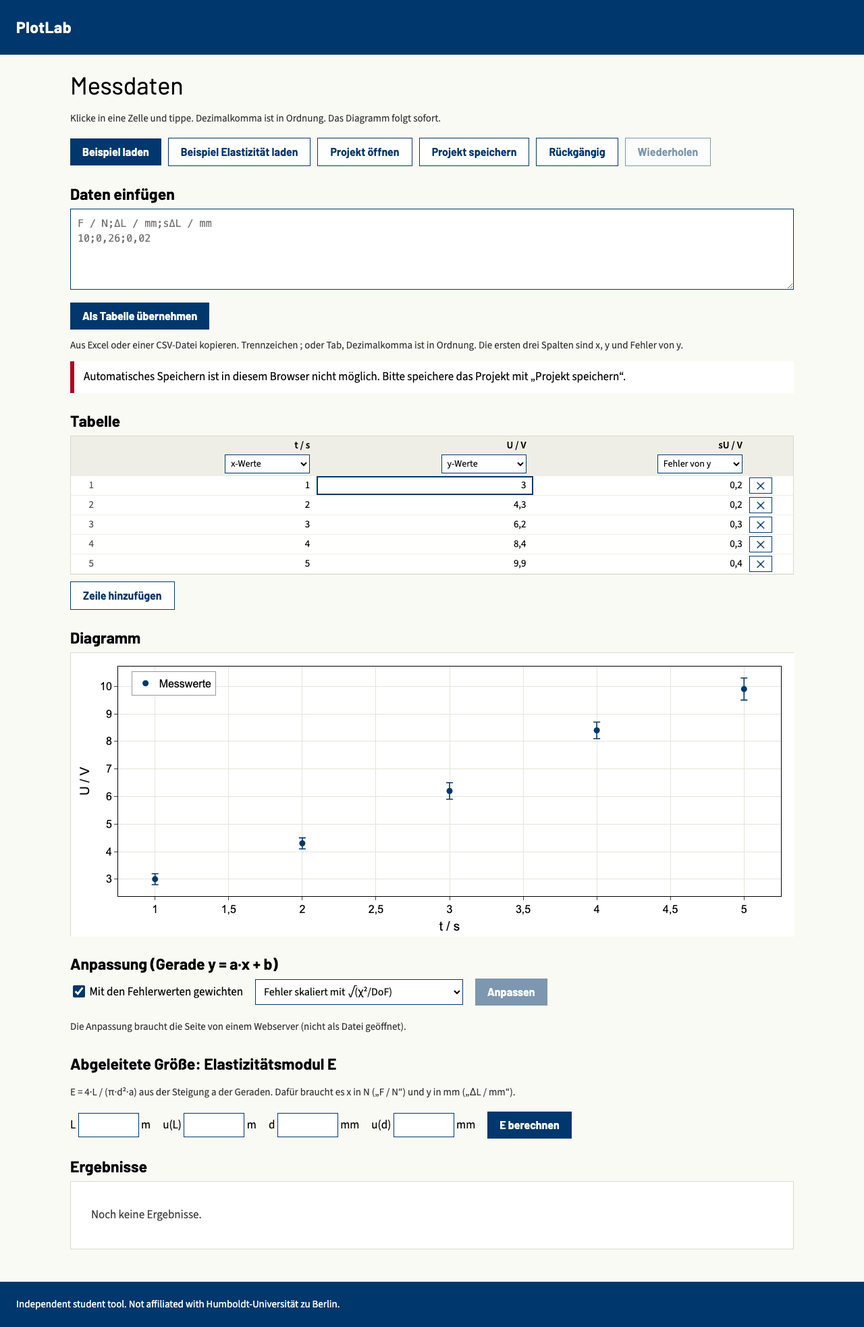
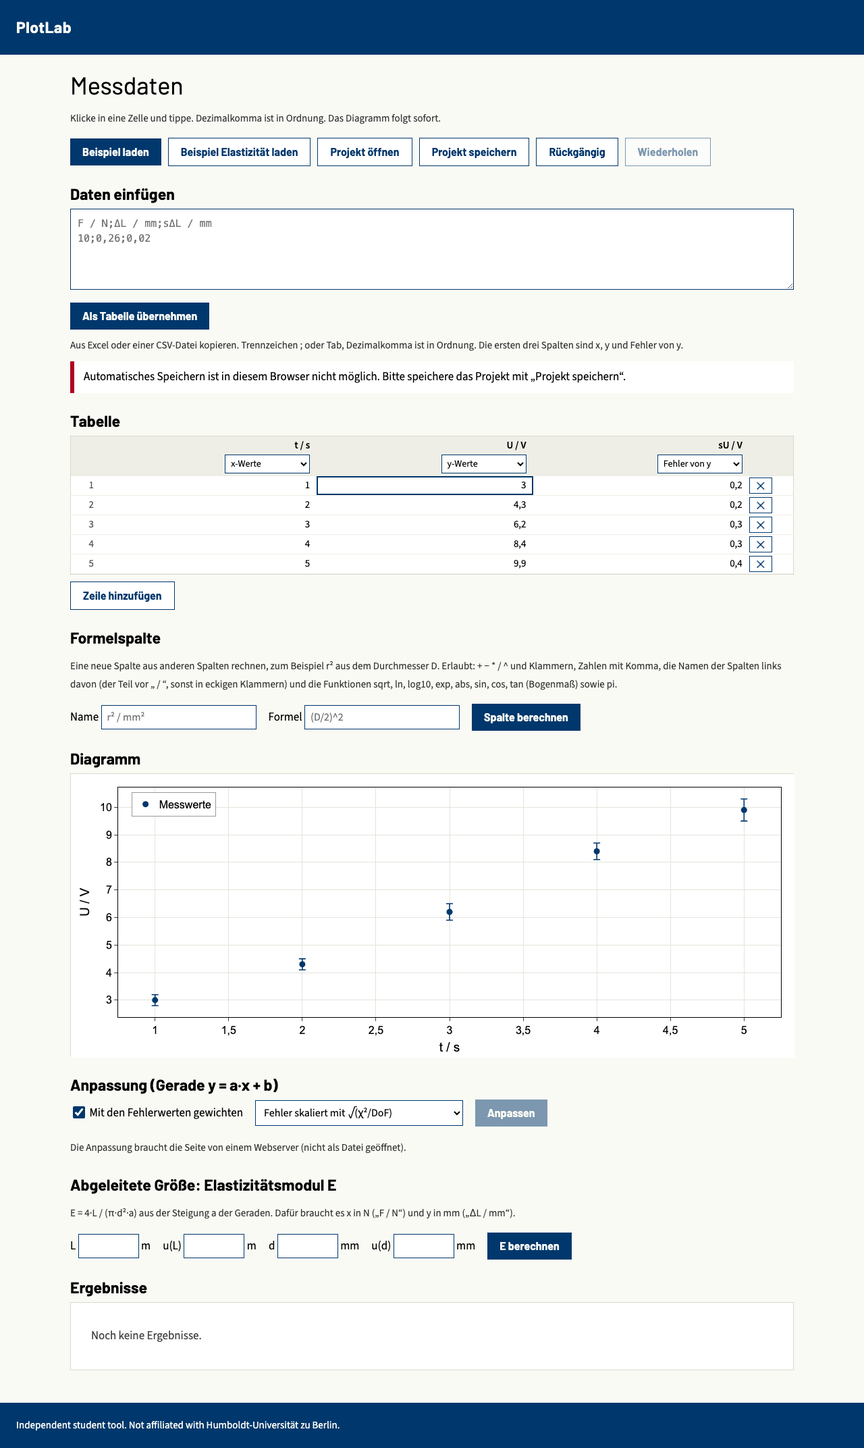
Phase 2 step 1: formula columns with a safe parser

diff --git a/app/index.html b/app/index.html
@@ -42,6 +42,10 @@
   #results th { position:static; padding:3px 12px; }
   #results td { padding:3px 12px; text-align:right; }
   input.num { width:90px; padding:6px 8px; font:16px "Source Sans 3", system-ui, sans-serif; text-align:right; border:1px solid var(--blue); border-radius:0; background:#fff; }
+  input.txt { padding:6px 8px; font:16px "Source Sans 3", system-ui, sans-serif; border:1px solid var(--blue); border-radius:0; background:#fff; width:230px; max-width:100%; }
+  .fx { font-weight:400; font-size:13px; line-height:18px; color:#444; }
+  td.calc { padding:3px 10px; text-align:right; background:#f6f6ef; }
+  #fmsg { white-space:pre-line; }
   input.num.bad { background:#fde8ea; border-color:#B00020; }
   td.n { padding:3px 10px; color:#555; text-align:right; width:44px; }
   td input { width:100%; min-width:90px; border:0; border-radius:0; padding:3px 10px; font:inherit; text-align:right; background:transparent; }
@@ -82,6 +86,14 @@
   <div class="btns">
     <button class="btn alt" id="addrow" disabled>Zeile hinzufügen</button>
   </div>
+  <h2>Formelspalte</h2>
+  <p class="hint">Eine neue Spalte aus anderen Spalten rechnen, zum Beispiel r² aus dem Durchmesser D. Erlaubt: + − * / ^ und Klammern, Zahlen mit Komma, die Namen der Spalten links davon (der Teil vor „ / “, sonst in eckigen Klammern) und die Funktionen sqrt, ln, log10, exp, abs, sin, cos, tan (Bogenmaß) sowie pi.</p>
+  <div class="fitbar">
+    <label>Name <input class="txt" id="f_name" aria-label="Name der neuen Spalte" placeholder="r² / mm²" autocomplete="off"></label>
+    <label>Formel <input class="txt" id="f_expr" aria-label="Formel der neuen Spalte" placeholder="(D/2)^2" autocomplete="off" spellcheck="false"></label>
+    <button class="btn" id="f_add" disabled>Spalte berechnen</button>
+  </div>
+  <div id="fmsg" class="msg" role="alert" hidden></div>
   <h2>Diagramm</h2>
   <div id="plot"><div class="empty">Noch keine Daten.</div></div>
   <h2>Anpassung (Gerade y = a·x + b)</h2>
@@ -110,6 +122,7 @@
 <script src="../testbuild/round.js"></script>
 <script src="../testbuild/parse.js"></script>
 <script src="project.js"></script>
+<script src="formula.js"></script>
 <script src="derive.js"></script>
 <script>
 const $ = id => document.getElementById(id);
@@ -145,7 +158,7 @@ $("undo").onclick = undoStep;
 $("redo").onclick = redoStep;
 // Always take over Ctrl/Cmd+Z so the browser's own per-cell undo cannot disagree with ours.
 document.addEventListener("keydown", e => {
-  if (!(e.ctrlKey || e.metaKey) || e.altKey) return;
+  if (!(e.ctrlKey || e.metaKey) || e.altKey || e.target.matches?.("input.txt")) return;
   const k = e.key.toLowerCase();
   if (k === "z" || k === "y") { e.preventDefault(); (k === "y" || e.shiftKey) ? redoStep() : undoStep(); }
 });
@@ -171,17 +184,19 @@ function restoreAutosave() {
 function setProject(p) {
   proj = p; undo = []; redo = []; editKey = null; updateHist();
   $("msg").hidden = true;
-  $("saveproj").disabled = $("addrow").disabled = false; if (worker?.ready && !pending) $("fit").disabled = false;
+  $("saveproj").disabled = $("addrow").disabled = $("f_add").disabled = false; if (worker?.ready && !pending) $("fit").disabled = false;
   render();
 }
 function showMsg(t) { $("msg").textContent = t; $("msg").hidden = false; }
 
+const fmtCalc = new Intl.NumberFormat("de-DE", { maximumSignificantDigits: 8 });
+const calcText = (c, i) => c.values[i] === null ? "" : fmtCalc.format(c.values[i]);
 function renderTable() {
   const roleSel = (c, j) => `<select class="role" data-role="${j}" aria-label="Rolle von ${esc(c.name)}">` +
     Object.entries(ROLE_LABELS).map(([r, t]) => `<option value="${r}"${c.role === r ? " selected" : ""}>${t}</option>`).join("") + "</select>";
-  const head = "<tr><th></th>" + proj.columns.map((c, j) => `<th>${esc(c.name)}${roleSel(c, j)}</th>`).join("") + "<th></th></tr>";
+  const head = "<tr><th></th>" + proj.columns.map((c, j) => `<th>${esc(c.name)}${c.formula !== undefined ? `<div class="fx">= ${esc(c.formula)}</div>` : ""}${roleSel(c, j)}${c.formula !== undefined ? `<button class="btn alt small" data-delcol="${j}" aria-label="Spalte ${esc(c.name)} entfernen">Spalte entfernen</button>` : ""}</th>`).join("") + "<th></th></tr>";
   const body = Array.from({ length: nrows() }, (_, i) => `<tr><td class="n">${i + 1}</td>` +
-    proj.columns.map((c, j) => `<td><input data-r="${i}" data-c="${j}" aria-label="${esc(c.name)}, Zeile ${i + 1}" value="${c.values[i] === null ? "" : fmt.format(c.values[i])}" inputmode="decimal"></td>`).join("") +
+    proj.columns.map((c, j) => c.formula !== undefined ? `<td class="calc" data-calc="${j}">${calcText(c, i)}</td>` : `<td><input data-r="${i}" data-c="${j}" aria-label="${esc(c.name)}, Zeile ${i + 1}" value="${c.values[i] === null ? "" : fmt.format(c.values[i])}" inputmode="decimal"></td>`).join("") +
     `<td><button class="btn alt small" data-del="${i}" aria-label="Zeile ${i + 1} löschen">✕</button></td></tr>`).join("");
   $("table").innerHTML = `<table><thead>${head}</thead><tbody>${body}</tbody></table>`;
 }
@@ -240,7 +255,12 @@ function syncControls() {
   $("fitmsg").hidden = true; $("derivemsg").hidden = true;
   for (const k of ["L", "uL", "d", "ud"]) { const v = (proj.settings.young || {})[k]; $("y_" + k).value = v == null ? "" : fmt.format(v); $("y_" + k).classList.remove("bad"); }
 }
-function render() { renderTable(); renderPlot(); renderResults(); syncControls(); autosave(); }
+// Formula columns are recomputed from the data on every change; rows that cannot be calculated are named in the message.
+function recalc() {
+  const m = recalcFormulas(proj);
+  $("fmsg").textContent = m.join("\n"); $("fmsg").hidden = !m.length;
+}
+function render() { recalc(); renderTable(); renderPlot(); renderResults(); syncControls(); autosave(); }
 
 // An edit changes data only: keep the focused table as it is, redraw plot and results.
 $("table").addEventListener("input", e => {
@@ -253,6 +273,8 @@ $("table").addEventListener("input", e => {
   const key = el.dataset.r + "," + el.dataset.c;
   if (editKey !== key) { pushUndo(); editKey = key; }
   proj.columns[+el.dataset.c].values[+el.dataset.r] = v;
+  recalc();
+  $("table").querySelectorAll("td.calc").forEach(td => { td.textContent = calcText(proj.columns[+td.dataset.calc], +td.parentNode.rowIndex - 1); });
   renderPlot(); renderResults(); autosave();
 });
 // Choosing a role: x, y and error each belong to one column, so taking a role frees it from its old column.
@@ -271,6 +293,8 @@ $("table").addEventListener("focusout", e => {
   if (v !== undefined) el.value = v === null ? "" : fmt.format(v);
 });
 $("table").addEventListener("click", e => {
+  const dc = e.target.dataset.delcol;
+  if (dc !== undefined) { $("msg").hidden = true; change(() => proj.columns.splice(+dc, 1)); return; }
   const i = e.target.dataset.del;
   if (i === undefined) return;
   $("msg").hidden = true;
@@ -282,6 +306,15 @@ $("example2").onclick = () => {
   const p = newProject(...EXAMPLE2);
   p.settings.young = { L: 1, uL: 0.002, d: 0.5, ud: 0.01 };
   setProject(p);
+};
+$("f_add").onclick = () => {
+  const name = $("f_name").value.trim(), expr = $("f_expr").value, fail = t => { $("fmsg").textContent = t; $("fmsg").hidden = false; };
+  if (!name) return fail("Bitte einen Namen für die neue Spalte eingeben, zum Beispiel „r² / mm²“.");
+  if (proj.columns.some(c => c.name === name)) return fail(`Es gibt schon eine Spalte „${name}“. Bitte einen anderen Namen wählen.`);
+  const r = parseFormula(expr, proj.columns);
+  if (r.error) return fail(r.error);
+  change(() => proj.columns.push({ name, role: "unused", values: [], formula: expr.trim() }));
+  $("f_name").value = $("f_expr").value = "";
 };
 $("pastego").onclick = () => {
   const r = parseTable($("paste").value);

diff --git a/app/formula.js b/app/formula.js
@@ -1,0 +1,136 @@
+// Formula columns: a small parser for + - * / ^, parentheses, numbers (decimal comma or point), column names
+// and a fixed list of functions. The text is never run as code (no eval, no new Function): it becomes a tree of closures.
+// A formula may use only columns to its left, so recalculating in column order cannot loop.
+const FORMULA_FUNCTIONS = {
+  sqrt: x => { if (x < 0) throw "Wurzel aus einer negativen Zahl"; return Math.sqrt(x); },
+  ln: x => { if (!(x > 0)) throw "Logarithmus von 0 oder einer negativen Zahl"; return Math.log(x); },
+  log10: x => { if (!(x > 0)) throw "Logarithmus von 0 oder einer negativen Zahl"; return Math.log10(x); },
+  exp: Math.exp, abs: Math.abs, sin: Math.sin, cos: Math.cos, tan: Math.tan,
+};
+FORMULA_FUNCTIONS.wurzel = FORMULA_FUNCTIONS.sqrt;
+const FORMULA_CONSTANTS = { pi: Math.PI };
+const FORMULA_MAX_LENGTH = 300;
+const shortName = n => n.split(" / ")[0].trim();
+
+// Returns {fn, refs} (fn(valuesOfRow) -> number, refs = column indexes it reads) or {error} (German message).
+// ponytail: names are looked up among columns 0..upto-1 only.
+function parseFormula(text, columns, upto = columns.length) {
+  const src = String(text).replace(/[·×]/g, "*").replace(/−/g, "-").replace(/÷/g, "/");
+  if (src.trim() === "") return { error: "Bitte eine Formel eingeben, zum Beispiel (D/2)^2." };
+  if (src.length > FORMULA_MAX_LENGTH) return { error: `Die Formel ist zu lang (höchstens ${FORMULA_MAX_LENGTH} Zeichen).` };
+
+  // Names a formula may use: full column name, or the part before " / " when that is unique.
+  const full = new Map(), shorts = new Map();
+  for (let j = 0; j < upto; j++) {
+    full.set(columns[j].name, j);
+    const s = shortName(columns[j].name);
+    shorts.set(s, shorts.has(s) ? -1 : j);
+  }
+  const lookup = n => full.has(n) ? full.get(n) : shorts.has(n) ? shorts.get(n) : undefined;
+  const available = () => [...new Set(columns.slice(0, upto).map(c => shortName(c.name)))].slice(0, 8).join(", ");
+
+  const toks = [], re = /\s*(?:(\d+(?:[.,]\d+)?(?:[eE][+-]?\d+)?|[.,]\d+)|([\p{L}_][\p{L}\p{Nd}_]*)|\[([^\]]+)\]|(.))/uy;
+  for (let m; re.lastIndex < src.length && (m = re.exec(src));) {
+    if (m[1] !== undefined) toks.push({ t: "num", v: Number(m[1].replace(",", ".")) });
+    else if (m[2] !== undefined) toks.push({ t: "id", v: m[2] });
+    else if (m[3] !== undefined) toks.push({ t: "ref", v: m[3].trim() });
+    else if (m[4] !== undefined && m[4].trim() !== "") toks.push({ t: "op", v: m[4] });
+  }
+  toks.push({ t: "end" });
+  let pos = 0;
+  const refs = new Set();
+  const fail = msg => { throw { parse: msg }; };
+  const peek = () => toks[pos];
+  const isOp = v => peek().t === "op" && peek().v === v;
+  const show = t => t.t === "end" ? "das Ende der Formel" : `„${t.v}“`;
+
+  const column = name => {
+    const j = lookup(name);
+    if (j === -1) fail(`Der Spaltenname „${name}“ ist nicht eindeutig. Schreibe den vollen Namen in eckigen Klammern, zum Beispiel [${columns.find(c => shortName(c.name) === name).name}].`);
+    if (j === undefined) fail(`Unbekannte Spalte „${name}“ in der Formel.` + (available() ? ` Verfügbar: ${available()}.` : "") + " Die Formel darf nur Spalten links von der neuen Spalte benutzen.");
+    refs.add(j);
+    return v => v[j];
+  };
+  function primary() {
+    const t = peek();
+    if (t.t === "num") { pos++; return () => t.v; }
+    if (t.t === "ref") { pos++; return column(t.v); }
+    if (t.t === "id") {
+      pos++;
+      if (isOp("(")) {
+        if (!Object.hasOwn(FORMULA_FUNCTIONS, t.v)) fail(`Unbekannte Funktion „${t.v}“. Erlaubt: ${Object.keys(FORMULA_FUNCTIONS).join(", ")}.`);
+        pos++; const a = expr(); if (!isOp(")")) fail("Eine Klammer wurde nicht geschlossen."); pos++;
+        const f = FORMULA_FUNCTIONS[t.v]; return v => f(a(v));
+      }
+      if (Object.hasOwn(FORMULA_CONSTANTS, t.v)) return () => FORMULA_CONSTANTS[t.v];
+      return column(t.v);
+    }
+    if (isOp("(")) { pos++; const a = expr(); if (!isOp(")")) fail("Eine Klammer wurde nicht geschlossen."); pos++; return a; }
+    return fail(`Unerwartet: ${show(t)}. Hier fehlt eine Zahl, ein Spaltenname oder eine Klammer.`);
+  }
+  function power() {
+    let a = primary();
+    while (isOp("²") || isOp("³")) { const k = peek().v === "²" ? 2 : 3, l = a; pos++; a = v => l(v) ** k; }
+    if (isOp("^")) { pos++; const l = a, b = unary(); return v => l(v) ** b(v); }
+    return a;
+  }
+  function unary() {
+    if (isOp("-")) { pos++; const a = unary(); return v => -a(v); }
+    if (isOp("+")) { pos++; return unary(); }
+    return power();
+  }
+  function term() {
+    let a = unary();
+    while (isOp("*") || isOp("/")) {
+      const div = peek().v === "/"; pos++;
+      const l = a, r = unary();
+      a = div ? v => { const d = r(v); if (d === 0) throw "Division durch 0"; return l(v) / d; } : v => l(v) * r(v);
+    }
+    return a;
+  }
+  function expr() {
+    let a = term();
+    while (isOp("+") || isOp("-")) {
+      const minus = peek().v === "-"; pos++;
+      const l = a, r = term();
+      a = minus ? v => l(v) - r(v) : v => l(v) + r(v);
+    }
+    return a;
+  }
+  try {
+    const fn = expr();
+    if (peek().t !== "end") fail(`Unerwartet: ${show(peek())}. Fehlt ein Operator (+ − * / ^)?`);
+    return { fn, refs: [...refs] };
+  } catch (e) {
+    if (e && typeof e.parse === "string") return { error: e.parse };
+    throw e;
+  }
+}
+
+// Recomputes every formula column of project p in place (columns left to right).
+// Returns a list of German messages for formulas that failed or rows that could not be calculated.
+function recalcFormulas(p) {
+  const msgs = [], n = p.columns[0].values.length;
+  p.columns.forEach((c, j) => {
+    if (typeof c.formula !== "string") return;
+    const r = parseFormula(c.formula, p.columns, j);
+    if (r.error) { c.values = Array(n).fill(null); msgs.push(`Spalte „${c.name}“: ${r.error}`); return; }
+    const bad = [];
+    c.values = Array.from({ length: n }, (_, i) => {
+      const row = p.columns.map(k => k.values[i]);
+      if (r.refs.some(k => row[k] === null || row[k] === undefined)) return null;
+      try {
+        const v = r.fn(row);
+        if (!Number.isFinite(v)) throw "Das Ergebnis ist keine endliche Zahl";
+        return v;
+      } catch (e) {
+        if (typeof e !== "string") throw e;
+        bad.push([i + 1, e]); return null;
+      }
+    });
+    if (bad.length) msgs.push(`Spalte „${c.name}“, Zeile ${bad[0][0]}: ${bad[0][1]}. Der Wert bleibt leer.` + (bad.length > 1 ? ` Weitere betroffene Zeilen: ${bad.slice(1).map(b => b[0]).join(", ")}.` : ""));
+  });
+  return msgs;
+}
+
+if (typeof module !== "undefined") module.exports = { parseFormula, recalcFormulas };

diff --git a/app/project.js b/app/project.js
@@ -37,7 +37,7 @@ function open(text) {
   if (!p || p.format !== "datenplot-projekt") return { error: "Die Datei ist kein Projekt dieser Anwendung." };
   if (p.version !== 1) return { error: `Projektversion ${p.version} wird nicht unterstützt.` };
   const ok = Array.isArray(p.columns) && p.columns.length && Array.isArray(p.results) && p.settings &&
-    p.columns.every(c => typeof c.name === "string" && ROLES.includes(c.role) && Array.isArray(c.values) &&
+    p.columns.every(c => typeof c.name === "string" && (c.formula === undefined || typeof c.formula === "string") && ROLES.includes(c.role) && Array.isArray(c.values) &&
       c.values.length === p.columns[0].values.length && c.values.every(v => v === null || Number.isFinite(v)));
   return ok ? { project: p } : { error: "Das Projekt ist beschädigt: Spalten oder Werte fehlen oder sind keine Zahlen." };
 }

diff --git a/docs/progress.md b/docs/progress.md
@@ -7,7 +7,7 @@ Read by every round of the loop (see docs/loop-prompt.md). Keep the first line e
 
 Phase 1 is finished (see `docs/phase1-report.md`). Phase 2 **assumes P1 to P9** of `docs/lab-assignments-checklist.md` because the real experiment list from Luis's daughter is not known yet; revise these steps when she answers. Every number test uses hand calculations or textbook table values written separately from the app, never the app's own output. Every step ends with `bash scripts/check.sh` passing, a browser test with a screenshot, and one bad-input check. Also move what the app borrows from `testbuild/` (fonts, Plotly, round.js, parse.js, fit worker, Pyodide) into `app/` at the first step that touches it, and keep `testbuild/` tests passing until then.
 
-- [ ] 1. Formula columns, values only (P2, P5, P6): a new column defined by a formula over other columns (`+ - * / ^`, `sqrt`, `ln`, `log10`, `pi`, German column names, decimal comma). Recalculates when data changes, saved in the project, undo works. Test: r² and d·c columns from the P5 sheet against hand values; a formula with an unknown column name or a division by zero shows a clear message.
+- [x] 1. Formula columns, values only (P2, P5, P6): a new column defined by a formula over other columns (`+ - * / ^`, `sqrt`, `ln`, `log10`, `pi`, German column names, decimal comma). Recalculates when data changes, saved in the project, undo works. Test: r² and d·c columns from the P5 sheet against hand values; a formula with an unknown column name or a division by zero shows a clear message.
 - [ ] 2. Error propagation for formula columns (P2, P5, P6): optional uncertainty column per formula result, Gaussian propagation from the uncertainties of the inputs (independent inputs). Test: product, quotient and square-root cases against hand-derived partial derivatives, including the Wheatstone bridge Rx = R1·R2/R3 case.
 - [ ] 3. Mean, standard deviation (n or n−1, chosen by the student), standard error, and random plus instrument error combined in quadrature (P2 volume measurement, P1). Test: a 10-value sample against hand values for both choices of n; result lines in HU format.
 - [ ] 4. Weighted mean with uncertainty and an overlap check of several results (P2). Test: three volume results with different uncertainties against hand values (w = 1/u², mean, 1/√Σw); the overlap verdict (within k·u) matches the hand check.
@@ -75,3 +75,4 @@ Phase 1 is finished (see `docs/phase1-report.md`). Phase 2 **assumes P1 to P9** 
 - 2026-10-14, Phase 1 step 6: A student can now load "Beispiel Elastizität" (steel wire, load F in N against extension in mm), fit the line, enter the wire length L and diameter d with their uncertainties, press "E berechnen" and read the Young's modulus, for example E = (201 ± 8) GPa. The formula is E = 4·L / (π·d²·a) with the fitted slope a; the uncertainty adds the relative errors of L, 2·d and a in quadrature, and the page shows each share (0,2 %, 4 %, 1,15 %). It uses the scaled or unscaled slope error, whichever is selected (unscaled gives (201 ± 9) GPa). E goes out of date when data, weighting or an input changes; undo and reload keep it. Tested in a real browser (`tests/phase1-step6-elasticity.sh`) against numbers calculated separately in plain Python from the formulas, not by the app: a = 0,0252857 mm/N, u(a) 0,000290 (scaled) and 0,000478 (unscaled), χ²/DoF 0,369, E = 201,416 GPa, u(E) = 8,39 (scaled) and 8,92 (unscaled). The formula alone is also checked on a case that can be done in the head (E = 4/π GPa, relative error 0,3). Bad cases give clear messages: no fit yet or stale fit, an empty or non-numeric input, wrong column units (needs N and mm). All 13 checks in `scripts/check.sh` pass. Screenshots `evidence/phase1-step6-elasticity.png` and `-error.png` judged OK. Not yet: the shear modulus from oscillation periods and the loading/unloading comparison from the P3 sheet; a general formula column with error propagation comes in Phase 2.
 - 2026-10-14, Phase 1 step 7: The line fit was checked against independent references and the check found a real weakness: the old fit (SciPy `curve_fit`, which iterates) matched the official NIST dataset Norris (36 points) only to 7.6 digits for the intercept and 5.5 digits for the slope error. The straight-line fit now solves the problem directly (SVD least squares in the Python worker), and `curve_fit` stays for Michaelis-Menten and the NIST nonlinear checks. Result against NIST certified values: slope 1,00211681802 and intercept -0,262323073774 correct to 9 or more digits, standard errors (0,000429796848 and 0,232818234301) 9 digits, residual sum of squares 26,6173985294 and 34 degrees of freedom exact. Weighted fits: (1) with equal errors the scaled-error weighted fit must equal the unweighted one, so it matches NIST too (9 digits); (2) a 7-point case with unequal errors checked against a separate Python script (`tests/reference/weighted_line.py`, exact fractions, other formulas): a = 1,86588504, b = 0,85012444, scaled errors 0,0736838 and 0,151466, unscaled 0,0512457 and 0,105342, χ² 10,3371, all 9 digits. On screen: Norris reads a = (1,0021 ± 0,0004), b = (-0,26 ± 0,23); the 7-point case a = (1,87 ± 0,07) scaled and (1,87 ± 0,05) unscaled, both rounded by hand. Test: `tests/phase1-step7-reference.sh` (failed with the old code, passes now); all 14 checks in `scripts/check.sh` pass. Screenshots `evidence/phase1-step7-norris.png`, `-weighted.png` judged OK. Not yet: R is not installed, so the R comparison stays open (see Blocked); NIST has no certified weighted linear dataset, so the weighted case rests on the hand calculation.
 - 2026-10-14, Phase 1 step 8 and Phase 1 gate: P3 Elasticity now runs start to finish in the real page: paste six German-format rows, press "Anpassen", enter L, u(L), d, u(d), press "E berechnen", save. Result: a = (0,02529 ± 0,00029) mm/N, E = (201 ± 8) GPa (the hand-calculated numbers). Measured by `tests/phase1-step8-timed.sh`: 9 user actions, 219 to 291 ms of machine time over four runs (Apple M5, headless Chromium, local server), plus 4.6 to 5.3 s once per visit for Python to load. The same task in Excel is about 40 actions, but that count is my estimate from the steps, not a measurement with a person. Edit, undo and save/reopen in a fresh browser profile keep everything (checked in the same test). Added a "Daten einfügen" box so a student can start with their own numbers (before, only examples or a saved project were possible), and the fit details no longer name `absolute_sigma`: they say "gewichtete Methode der kleinsten Quadrate (Gewichte 1/s²); Fehler mit √(χ²/DoF) skaliert" or "unskaliert, direkt aus den Fehlerwerten". Bad pastes (empty, letters) give clear messages. All 15 checks in `scripts/check.sh` pass; screenshot `evidence/phase1-step8-timed.png` judged OK. Wrote `docs/phase1-report.md`: gate passed except the R comparison and a human timing, both under "For Luis". PHASE is now 2; Phase 2 steps (assuming P1 to P9) written above.
+- 2026-10-14, Phase 2 step 1: A student can now add a formula column under the table ("Formelspalte"): a name such as "r² / mm²" and a formula such as (D/2)^2 or d*c or sqrt([r²])+0,5. Allowed: + - * / ^ (also ², ·, ×, −, ÷), brackets, numbers with decimal comma or point, names of columns to the left (the part before " / ", or the full name in [brackets]), the functions sqrt, ln, log10, exp, abs, sin, cos, tan, and pi. The column recalculates when data changes (edit, add row, undo, redo), is saved in the project and in autosave, can get a role (for example y) and then drives the plot, and can be removed. The formula text is never run as code: it is read by a small parser (`app/formula.js`, no eval). Tested by hand-worked values: P5-style Newton's rings, r² = (D/2)² = 1; 2,25; 4; 6,25 and after editing D to 2,2 r² = 1,21; polarimetry d·c = 0,2; 0,4; 0,6; 0,8; precedence (2^3^2 = 512, -2^2 = -4, 8/4/2 = 1); 13 attempts to smuggle code ("alert(1)", "constructor", "process.exit()" and so on) all give a parse message. Bad input gives clear German messages: unknown column "foo" (lists the usable names, nothing is added), unknown function, missing bracket, empty name or formula, duplicate name, division by zero (the cell stays empty and the message names the row, for example "Spalte „q / mm“, Zeile 1: Division durch 0. Der Wert bleibt leer."), root or logarithm of a negative number. A hand-edited project file with wrong stored numbers is recomputed on opening, and names or formulas with <script> or <img onerror> are shown as text and never run. Tests: `tests/phase2-step1-formula.sh` (parser in Node, then the real page in Chromium); all 16 checks in `scripts/check.sh` pass. Screenshots `evidence/phase2-step1-formula.png` and `-error.png` judged OK (header shows the formula, calculated cells shaded, decimal commas, error in red box). Not yet: no uncertainty for formula columns (step 2); a formula cannot be edited in place (remove and add again); no column names with superscripts as short names (use [r²]).

diff --git a/CHANGELOG.md b/CHANGELOG.md
@@ -2,6 +2,13 @@
 
 Written in plain language for people who do not read code. Newest entry on top.
 
+## 2026-10-14: Formula columns (Physics 2 experiments P2, P5, P6)
+
+- **What a student can now do:** add a new column that is calculated from other columns, for example r² = (D/2)^2 for Newton's rings or d·c for polarimetry. Type a name and a formula under "Formelspalte" and press "Spalte berechnen". Decimal commas, brackets, + − * / ^ and the functions sqrt, ln, log10, exp, abs, sin, cos, tan and pi work. The column updates by itself when a number is changed, can be used as the x or y column of the plot, is saved with the project, and can be removed again.
+- **Messages:** an unknown column name, an unknown function, a missing bracket, a duplicate name or a division by zero gives a plain German message (division by zero names the row and leaves that cell empty).
+- **Safe:** the formula is read by a small parser and never run as code. Attempts such as "alert(1)" are just reported as unknown.
+- **Tested:** `tests/phase2-step1-formula.sh` against values worked out by hand (for example r² = 1; 2,25; 4; 6,25), in the real page, including undo, save, reopen and a hand-edited project file. **Not covered yet:** uncertainties of formula results (next step).
+
 ## 2026-10-14: Elasticity (P3) works start to finish, and you can paste your own data
 
 - **What a student can now do:** paste a table from Excel or a CSV file (semicolon or tab, decimal comma) into the new box "Daten einfügen", press "Als Tabelle übernehmen", fit, enter wire length and diameter, and get E = (201 ± 8) GPa, then save the project. That is 9 clicks and entries. The same work in Excel is about 40 by my count of the steps (an estimate, not timed with a person). Before, the app could only load two examples or a saved project.
